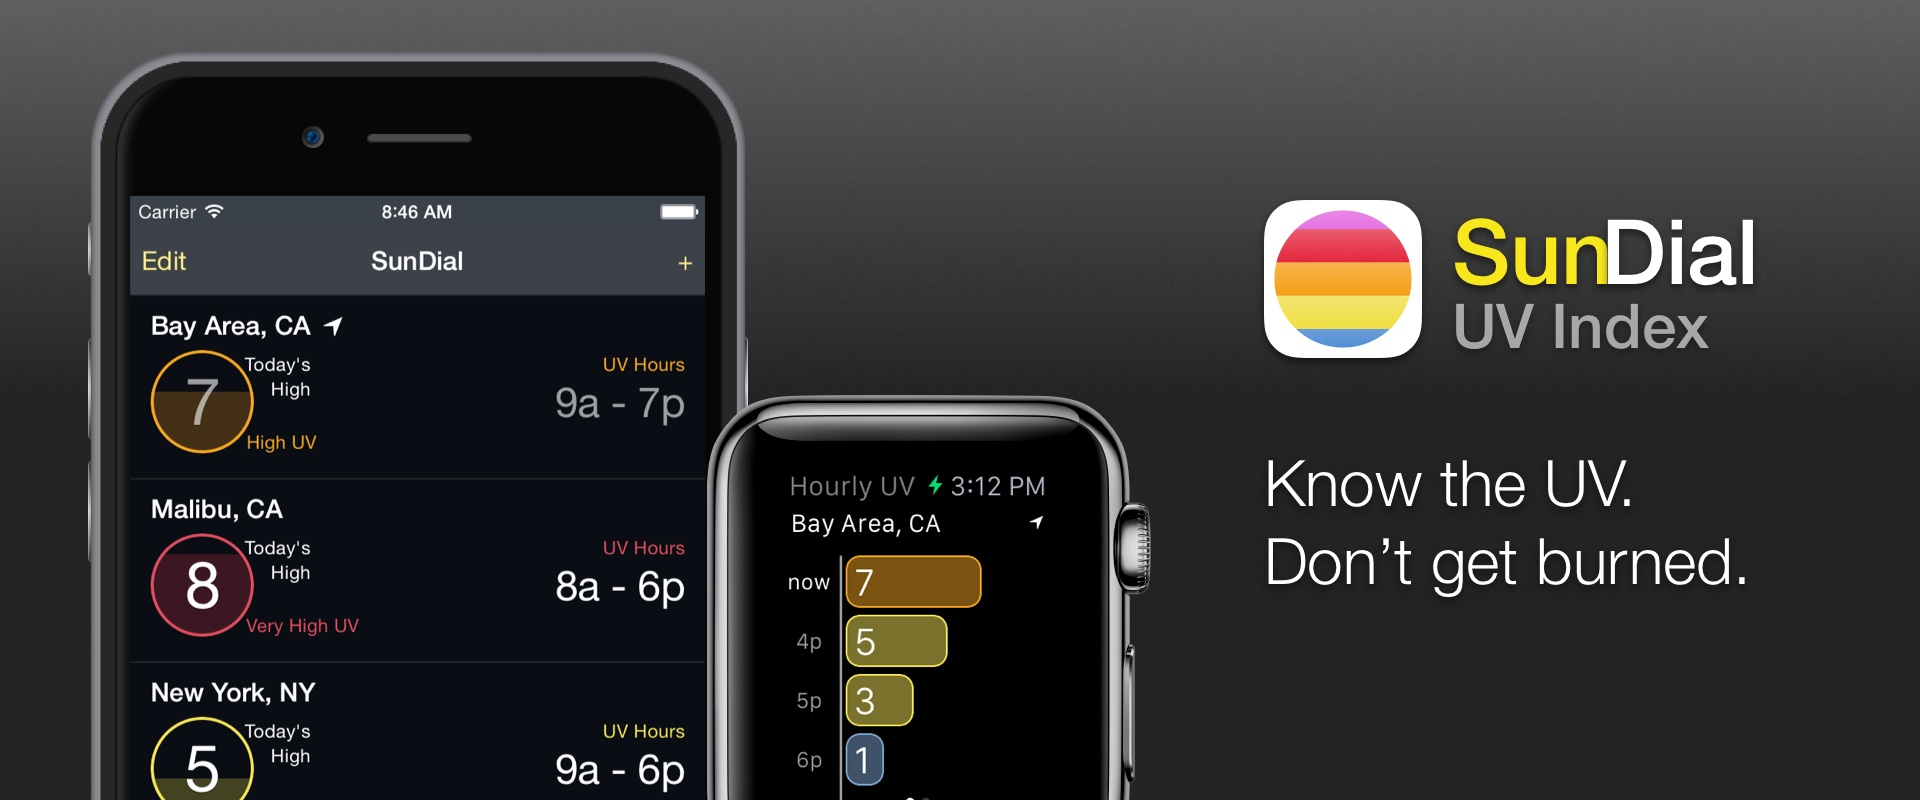
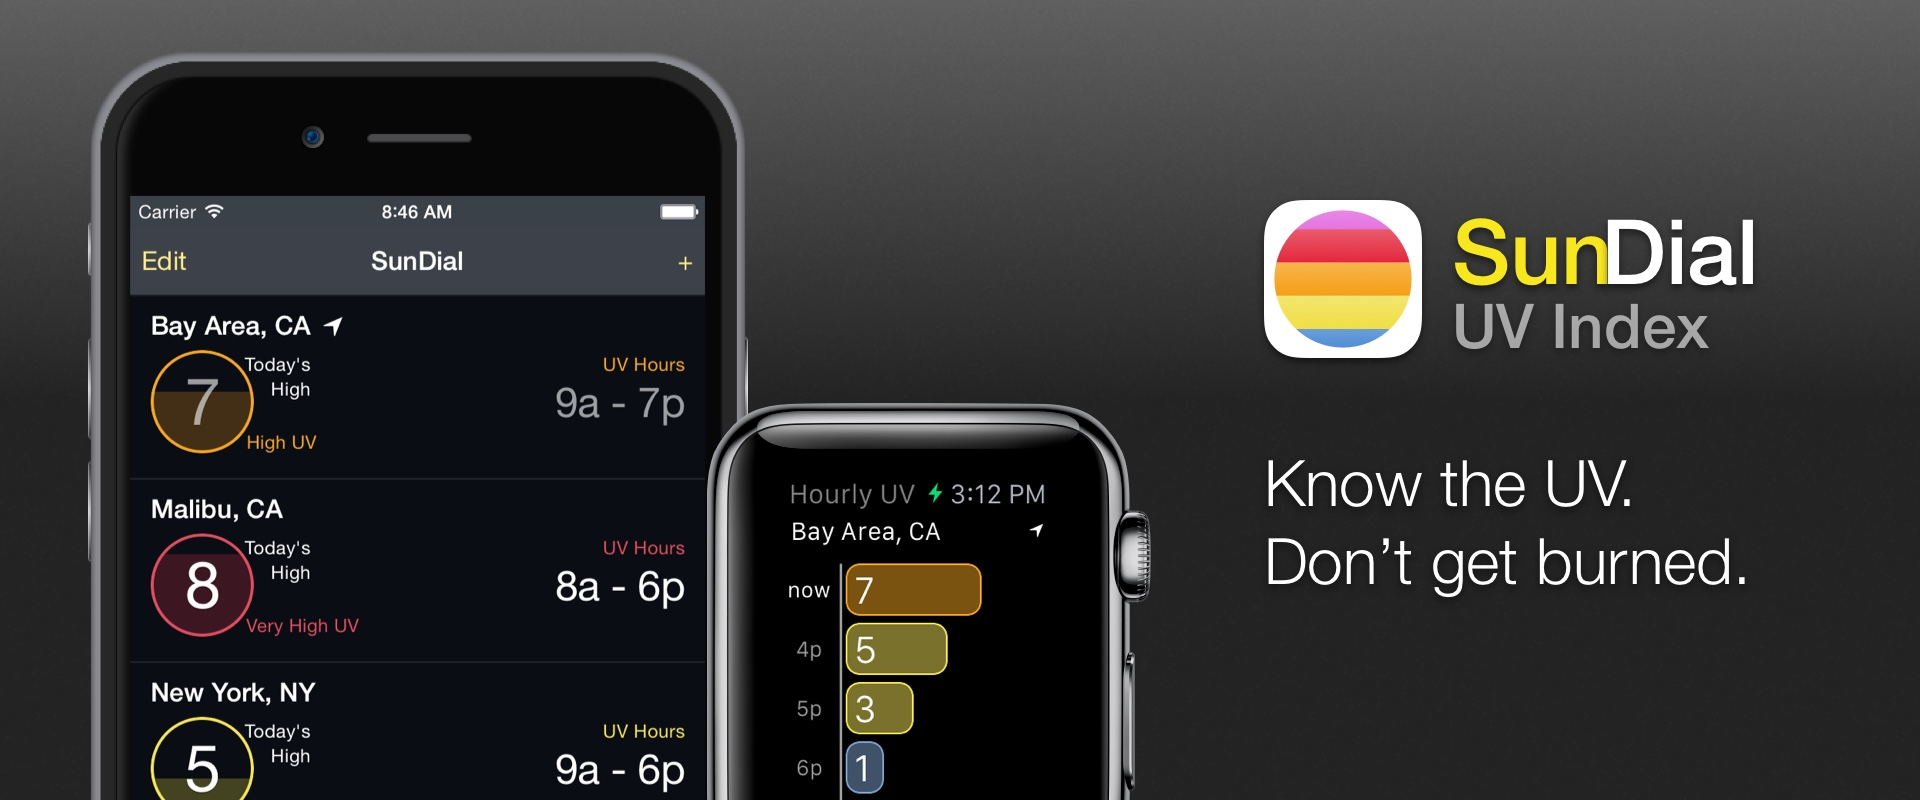
Removed some vestigial code from CSS. Bumped watch down in hero.

diff --git a/stylesheet.css b/stylesheet.css
@@ -32,7 +32,6 @@ h4 {
 
 .container {
     min-height: 100%;
-    /*width: 960px;*/
     width: 100%;
     margin-left: auto;
     margin-right: auto;
@@ -68,10 +67,6 @@ h4 {
 }
 
 .featureRect {
-/*
-    margin-left: 10%;
-    margin-right: 10%;
-*/
     text-align: left;
     line-height: 2em;
     margin-top: 8%;
@@ -106,7 +101,6 @@ h4 {
     padding: 5%;
     padding-top: 2%;
     text-align: left;
-/*    font-size: 1.8em;*/
     border: 1px solid #586870;
     border-top: 0px;
     background-color: white;
@@ -116,7 +110,6 @@ h4 {
     padding: 5%;
     padding-top: 2%;
     text-align: left;
-/*    font-size: 1.8em;*/
     border: 1px solid #586870;
     border-top: 0px;
     background-color: white;
